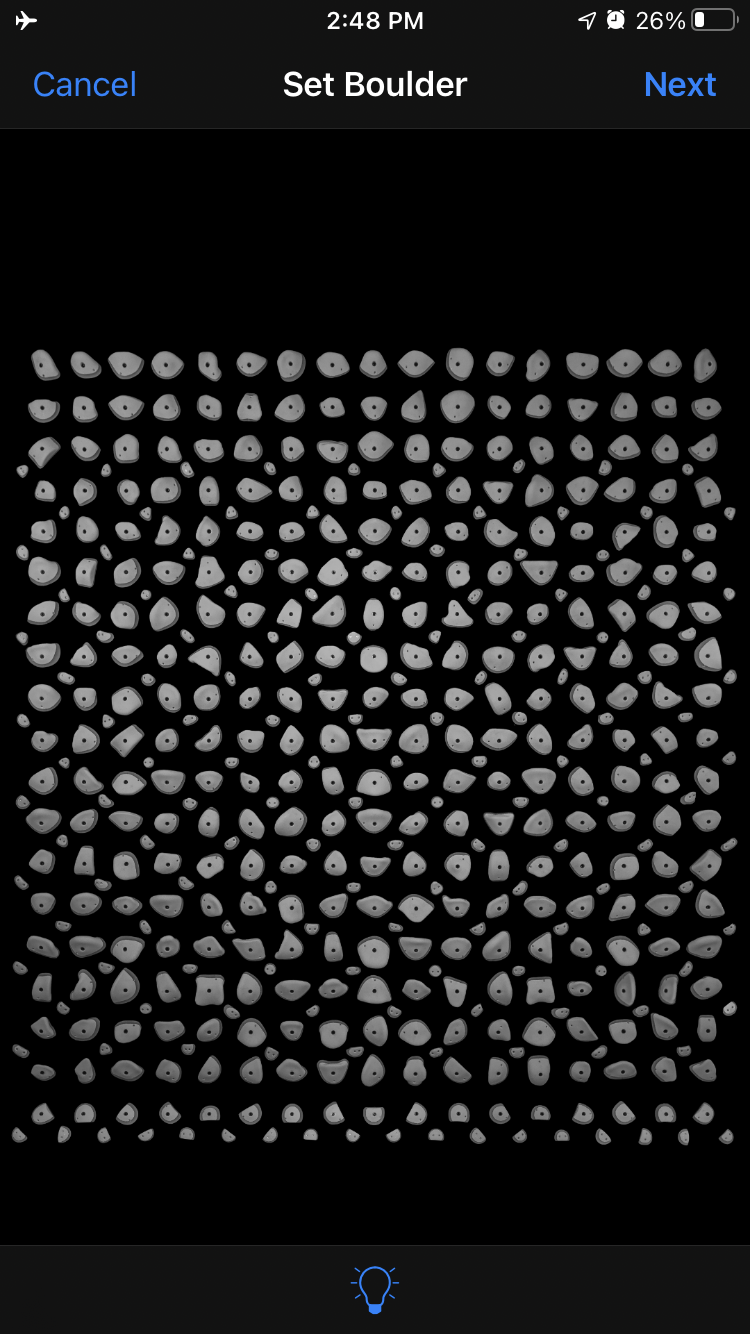
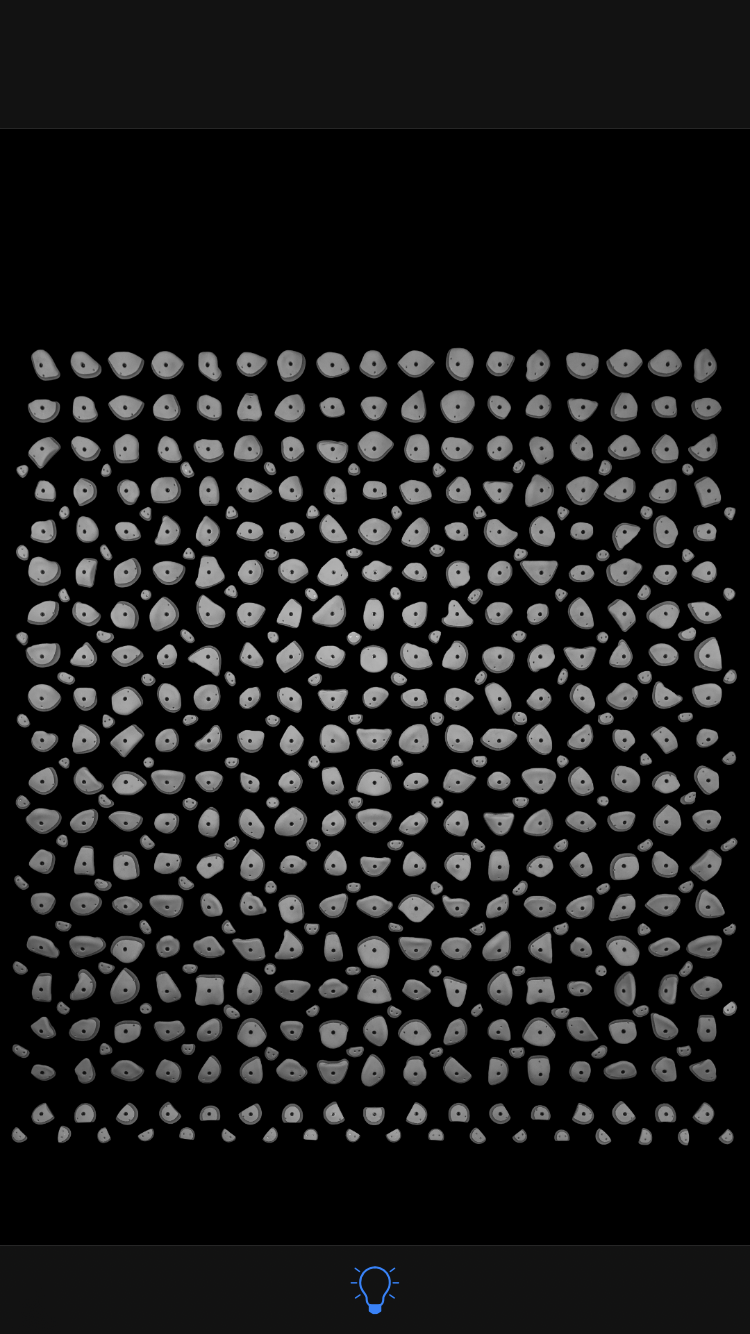
Began to code up the first sequential setter, starting with a NearestNeighbor heuristic sequencer, which will essentially try to predict the beta of the climb so that the sequential setter has some notion of what doable and non-doable beta is.
Declared some funsions in the setters for training on data and creating climbs

Reorganized some files into new folders to allow for more intuitive folder structure

Completed visualize_climbs.py, which draws out and displays any set of hold coordinates as a climb (on the kilter board)

diff --git a/ai_setters/sequencers/NearestNeighborSequencer.py b/ai_setters/sequencers/NearestNeighborSequencer.py
@@ -1,0 +1,123 @@
+class NearestNeighborSequencer():    
+    def __init__(self,hand_holds_dict):
+        # Note, the NearestNeighborSequencer ignores feet so self.hand_holds does not contain Feet
+        hand_holds_locations_type = []
+        for hold_location in hand_holds_dict['Start']:
+            hold_location_type = hold_location+['start']
+            hand_holds_locations_type.append(hold_location_type)
+        for hold_location in hand_holds_dict['Any']:
+            hold_location_type = hold_location+['middle']
+            hand_holds_locations_type.append(hold_location_type)
+        for hold_location in hand_holds_dict['Finish']:
+            hold_location_type = hold_location+['finish']
+            hand_holds_locations_type.append(hold_location_type)
+        
+        # self.hand_holds_remaining = hand_holds_locations_type
+        self.hand_holds_remaining = [[2,0,'start'],[3,1,'middle'],[2,1,'middle'],[3,3,'middle'],[4,2,'finish']]
+        self.pair = []
+        self.sequence = []
+        # self.sequence = [[2,0,'start'],[3,1,'middle'],[2,1,'middle'],[3,3,'middle'],[4,2,'finish']]
+        self.pair_distance = []
+        self.crossed = False
+        self.is_end = False
+
+    def get_nearest_neighbor_sequence(self):
+        print(f"Sequencing with {len(self.hand_holds_remaining)} holds left")
+
+    # def get_nearest_neighbor_sequence(hand_holds,pair,sequence,pair_distance,crossed,is_end):
+        # this is a recursive function
+
+        # *** let's assume a lateral (x-axis) span of 6 holds (or 12 coordinate steps) (+2 holds if tall?) and a vertical span of 9 (+2 holds if tall?) holds ***
+        # we will use climber_span = 6 as a default value but it can be any value (as determined by the climber's actual height)
+        # for now let's ignore that you can reach farther vertically (by dynoing) than horizontally and assume span = 12 coordinate steps
+        # Note that this sequence selector doesn't account for the true "morphology handedness" (sidepull/undercling) of the holds
+        # Also note that this sequence selector does not allow hold recycling to avoid infinite loops
+        # TODO: this sequence selector doesn't currently allow for cross hands start
+        # TODO: this sequence selector doesn't allow for matching any holds except for the start and finish
+        # first, only consider the hand holds - no feet
+        # consider the holds as a list of unordered holds we want to order
+        # eg. [(2,0)(start=0),(3,1)(middle=1),(1,2)(middle=1),(3,3)(middle=1),(4,2)(finish=2)] 
+        # 4       f
+        # 3          m
+        # 2    m           for this sequence you can see following the rules below that the proposed sequence is
+        # 1          m     [(2,0)(start=0)(LR),(3,1)(middle=1)(R),(3,3)(middle=1)(R),(4,2)(finish=2)]
+        # 0       s
+        #   0  1  2  3  4
+
+        # On the first call of get_nearest_neighbor_sequence, we need to initialize a 
+
+        # Rules for determining next hold and the handedness of that hold
+        # Note: firstly, always maintain a pair of holds which indicate which holds the hands are on
+        #    0. if the pair contains one finish hold, the next move is to match the other/same finish hold, return final_sequence
+        #    1. the next hold is the nearest neighbor to the pair of holds (test all four possibilities)
+        #        a. there is always only ONE next hold chosen
+        #        b. if there is a tie then choose the lower of the two holds
+        #        c. if there is still a tie then choose randomly
+        #    2. check if you are crossed (left hand hold is to the right of the right hand)
+        #        a. if you are crossed and the next hold is to the L side of the pair, move left hand, if R move R
+        #        b. if you are crossed and the next hold is x-wise between the pair, continue below
+        #    3. the proposed handedness of the next hold to grab is based on it's x-position relative to its nearest neighbor
+        #       we update the proposed pair by "moving the L/R hand to the next hold" and compute the pair distance
+        #        a. if the next hold to grab is directly above it's nearest neighbor, 
+        #           run a depth-1 search over the next hand positions and select the proposed handedness that prevents crossing
+        #    4. if the next hold is equidistant from both holds in the pair, run depth-1 search over the next hand positions
+        #       whichever of the pair distances for the depth one search is smaller or results in no crossing if equal, choose that hand and return
+        #    5. if the proposed sequence causes the distance between the pair to exceed the span, then
+        #        a. try moving the other hand to that hold and if the distance < span, use that sequence
+        #        b. if neither hold puts the sequence below the span, choose the sequence with the least pair distance
+        #    6. if the next hold is between the left and right hold non-inclusive, run depth-1 search over the next hand positions
+        #       whichever pair distance doesn't have crossing is prefered otherwise chose the least pair distance, otherwise random
+        #    7. get_nearest_neighbor_sequence(hand_holds,new_pair,new_sequence,new_pair_distance,new_crossed,is_end)
+
+        if self.is_end:
+            nearest_neighbor_sequence = self.sequence
+            return nearest_neighbor_sequence
+        
+        #0
+        if "finish" in self.pair[0] or self.pair[1]:
+            # If our pair contains one finish hold, then next move is to match (either the only or the other finish hold)
+            # First we identify the only or the other finish hold as finish_hold_choice
+            finish_in_pair = self.pair[0] if "finish" in self.pair[0] else self.pair[1]
+            finish_hold_options = []
+            for hold in self.hand_holds_remaining:
+                if "finish" in hold:
+                    finish_hold_options.append(hold)
+            finish_hold_choice = finish_in_pair[0:3] if len(finish_hold_options) == 0 else finish_hold_options[0]
+            # Then we determine the handedness of that finish hold as the hand not currently on the finish hold in the pair
+            # The third element of a hold in the pair is the handedness
+            hold_not_on_finish_in_pair = self.pair[0] if not "finish" in self.pair[0] else self.pair[1]
+            finish_hold_handedness = hold_not_on_finish_in_pair[3] 
+            new_pair = self.update_pair(finish_hold_choice, finish_hold_handedness)
+            # new_sequence = update_sequence(old sequence, new hold, new handedness)
+            # new_pair_distance = get_pair_distances(old pair, new hold)
+            # new_crossed = get_whether_crossed(new_pair)
+            self.is_end = True
+            # return get_nearest_neighbor_sequence(hand_holds,new_pair,new_sequence,new_pair_distance,new_crossed,is_end)
+        
+        #TODO:
+        #1, #2, #3, etc.
+        # edge cases to test:
+        # start holds are the finish holds
+        # all holds are one start hold and two finish holds
+        # all holds are two start holds and one finish hold
+        # all holds are two start holds and two finish holds
+        # the climb is a traverse
+        # all the holds are in a vertical line
+        # TO TEST: try wagon lite, richard dugless, we are going to rocklands
+        pass
+
+    # Update self.pair moving the hand specified by new_handedness to new_hold
+    def update_pair(self, new_hold, new_handedness):
+        # Identify the old hand in the pair with the same hand as new_handedness
+        for i in range(len(self.pair)):
+            if self.pair[i][3] == new_handedness:
+                hold_index_to_move = i
+        # Move the hand specified by new_handedness to new_hold
+        self.pair[hold_index_to_move] = new_hold + [new_handedness]
+
+        return self.pair
+
+if __name__ == "__main__":
+    hand_holds = {'Start': [[4, 10], [6, 10]], 'Any': [[14, 32], [16, 24], [12, 22], [4, 20], [10, 14]], 'Finish': [[18, 38]], 'Feet': [[13, 21], [9, 13], [9, 5], [4, 2]]}
+    nns = NearestNeighborSequencer(hand_holds)
+    print(nns.get_nearest_neighbor_sequence())

diff --git a/data_parsing/visualize_climbs.py b/data_parsing/visualize_climbs.py
@@ -1,0 +1,95 @@
+import os
+from scipy import misc
+import cv2
+
+def visualize_climbs(climbs,climb_type='Kilter'):
+    #eg. sequential_setter_climbs = [ {'Name':"My First Climb",'Grade':"6c+/V5",'Holds':{'Start':[[1,2],[3,4]]} } , {'Name':"My Second Climb",'Grade':"7c+/V10",'Holds':{'Start':[[1,2],[7,8]]} } ]
+    if climb_type == 'Kilter':
+        kilter_climbs = []
+        climb_count = 1
+        outPath = os.cwd() + '/kilter_climbs_output'
+        for climb in climbs:
+            kilter_climbs.append(visualize_one(climb))
+
+            fullpath = os.path.join(outPath, f'climb{climb_count}.png')
+            misc.imsave(fullpath, climb)
+            climb_count = climb_count + 1
+    
+    return kilter_climbs
+
+def visualize_one(climb):
+    #eg. sequential_setter_climbs[0] = {'Name':"My First Climb",'Grade':"6c+/V5",'Holds':{'Start': [[2, 8]], 'Any': [[2, 34]], 'Finish': [[1, 5], [5, 5]], 'Feet': [[1, 33], [5, 33]]} }
+
+    climb_name = climb["Name"]
+    climb_grade = climb["Grade"]
+    climb_holds = climb["Holds"]
+    # take each of these parameters and translate them into a drawing on the image
+
+    screenshots_paths = []
+    screenshots_dir_path = os.getcwd() + '/kilter_climbs_output'
+    # locate the template image which we will draw holds and name and grade on top of
+    output_template = (os.path.join(screenshots_dir_path, 'output_template.png'))
+
+    #make a copy of the output template to draw on so we don't overwrite the original
+    output_image = cv2.imread(output_template).copy()
+
+    # TODO: First add the climb name and grade to the image, centered and near the top.
+    # make sure to add Set by: AISetter (SeqS)
+
+    # Next add circles indicating where all the holds are:
+
+    hold_locations = climb_holds
+    colored_hold_locations = {'Green': hold_locations['Start'], 'Teal': hold_locations['Any'], 'Magenta': hold_locations['Finish'], 'Orange': hold_locations['Feet']}
+
+    ''' To see the math for these linear equations for pcx and pcy, see the comments at the bottom of this file'''
+    for key in colored_hold_locations.keys():
+        if key == "Green": color = (80,210,)
+        if key == "Teal": color = (250,250,0)
+        if key == "Magenta": color = (250,0,250)
+        if key == "Orange": color = (0,160,250)
+        for hold in colored_hold_locations[key]:
+            hx = hold[0]; hy = hold[1]
+            pcx = round(20.8 * hx + 11.2 - 10.5); pcy = 1136 -  round(20.8 * hy - 27.8 + 10.5) # 20.8 is approximately the distance between holds in pixels, 10.5 is approxiamtely half the radius of the circle, then the pixels are shifted to match the image and the y pixels are flipped to fit cv2 conventions
+            # for each hold in climb_holds draw a circle on the appropriate coordinate
+            # draw a circle with the center at (pcx,pcy), color given by key, and radius 21, on top of output_image
+            cv2.circle(img=output_image, center=(pcx,pcy), radius=21, color=color, thickness=3)
+
+    
+    output_image = add_centered_text(output_image,'AI Setter',70,relative_font_size=2)
+    # angle = 50; output_image = add_centered_text(output_image,f'{angle}º'+u'\N{DEGREE SIGN}',110,color=(255,50,0)) # TODO: degree sign is broken
+    output_image = add_centered_text(output_image,'By: Dan Fu',110,color=(150,50,0)) # TODO: degree sign is broken
+    output_image = add_centered_text(output_image,f'{climb_name}',160)
+    output_image = add_centered_text(output_image,f'{climb_grade}',190,relative_font_size=0.7)
+
+
+    cv2.imshow(f"{climb_name}", output_image)
+    cv2.waitKey()
+
+    return climb_name
+
+def add_centered_text(image,text,ypos,font_type=cv2.FONT_HERSHEY_SIMPLEX,relative_font_size=1,color=(255,255,255),thickness=2):
+    textsize = cv2.getTextSize(text, font_type, relative_font_size, thickness)[0]
+    textX=int((image.shape[1] - textsize[0]) / 2)
+    output_image = cv2.putText(
+        image, 
+        text, 
+        org=(textX,ypos), 
+        fontFace=font_type, 
+        fontScale=relative_font_size, 
+        color=color, 
+        thickness=thickness)
+    return output_image
+
+if __name__ == "__main__":
+    climb_example = {'Name':"Hello World",'Grade':"6c+/V5",
+    'Holds':{
+        'Start': [[34, 10]], 
+        'Any': [[18, 34], [18, 28], 
+        [20, 28], [26, 26], [24, 24], 
+        [30, 18], [26, 16]], 
+        'Finish': [[22, 38]], 
+        'Feet': [[21, 21], [17, 17], 
+        [20, 10], [27, 1], [35, 1]]} 
+        }
+
+    visualize_one(climb_example)

diff --git a/ai_setters/sequencers/PrimitiveSequencer.py b/ai_setters/sequencers/PrimitiveSequencer.py
@@ -1,0 +1,18 @@
+ def get_primitive_sequence():
+        #   Note that this sequence selector clearly doesn't account for bumping or matching or crossing
+        # first, only consider the hand holds - no feet
+        # consider the holds as a list of unordered holds we want to order
+        # eg. [(2,0)(start=0),(3,1)(middle=1),(1,2)(middle=1),(3,3)(middle=1),(4,2)(finish=2)] 
+        # 4       f
+        # 3          m
+        # 2       m        for this sequence you can see that the correct sequence is
+        # 1          m     [(2,0)(start=0),(3,1)(middle=1),(2,2)(middle=1),(3,3)(middle=1),(4,2)(finish=2)]
+        # 0       s
+        #   0  1  2  3  4
+        # A. if there is one starting hold
+        #   1. the next hold is the nearest neighbor
+        #   2. the hold is right hand if it is to the right of the start, left hand if to the left
+        # B. if there are two starting holds
+        #   1. the next hold is the nearest neighbor to the pair of holds
+        #   2. 
+        pass

diff --git a/data_parsing/parse_holds.py b/data_parsing/parse_holds.py
@@ -174,12 +174,12 @@ if __name__ == "__main__":
         climb_image = cv2.imread(climb_screenshot)
         bottom_image = climb_image[400:-100, :]
 
-        cv2.imshow("bottom image", bottom_image)
-        cv2.waitKey()
-        single_color_image = black_all_but_color("Teal",bottom_image)
-        cv2.imshow("single color image", single_color_image)
-        cv2.waitKey()
-        print(detect_holds("Teal",bottom_image))
+        # cv2.imshow("bottom image", bottom_image)
+        # cv2.waitKey()
+        # single_color_image = black_all_but_color("Teal",bottom_image)
+        # cv2.imshow("single color image", single_color_image)
+        # cv2.waitKey()
+        # print(detect_holds_slow("Teal",bottom_image))
 
         print(get_hold_locations(bottom_image))
         # print(get_hold_locations_slow(bottom_image))

diff --git a/ai_setters/SequentialSetter.py b/ai_setters/SequentialSetter.py
@@ -1,8 +1,19 @@
-from .abstract_setter import AbstractSetter
+from .AbstractSetter import AbstractSetter
+import math
 class SequentialSetter(AbstractSetter):
     def __init__():
         pass
+
+    def get_hold_distance(hold1,hold2):
+        # distance = sqrt( (x2-x1)^2 + (y2-y1)^2 )
+        return math.sqrt( (hold2[0]-hold1[0])**2 + (hold2[1]-hold1[1])**2 )
+
+    nn_sequencer = NearestNeighborSequencer()
+    nearest_neighbor_sequence =NearestNeighborSequencer.get_nearest_neighbor_sequence()
+
+    
     def train(input_data):
+
         pass
         # first use a simple heuristic to determine the sequence of holds in the climb
         # (MAKE SURE to visualize this sequence of holds for a few dozen examples minimum so we know its limitations)

diff --git a/ai_setter_main.py b/ai_setter_main.py
@@ -3,9 +3,9 @@
 # Input: Optional parameters such as: Boulder difficulty, reachiness factor, hold type(s)
 # Output: Brand new, auto-generated kilterboard climbs matching to the input parameters
 
-from ai_setter_helpers.generate_data import generate_data
-from ai_setter_helpers.visualize_climbs import visualize_climbs
-from ai_setters.sequential_setter import SequentialSetter
+from data_parsing.generate_data import generate_data
+from data_parsing.visualize_climbs import visualize_climbs
+from ai_setters.SequentialSetter import SequentialSetter
 
 '''
 Step 1: Get the training data

diff --git a/ai_setters/NeuralNetworkSetter.py b/ai_setters/NeuralNetworkSetter.py
@@ -1,4 +1,4 @@
-from .abstract_setter import AbstractSetter
+from .AbstractSetter import AbstractSetter
 class NeuralNetwork(AbstractSetter):
     def __init__():
         pass

diff --git a/ai_setters/BasicSetter.py b/ai_setters/BasicSetter.py
@@ -1,4 +1,4 @@
-from .abstract_setter import AbstractSetter
+from .AbstractSetter import AbstractSetter
 class BasicSetter(AbstractSetter):
     def __init__():
         pass
